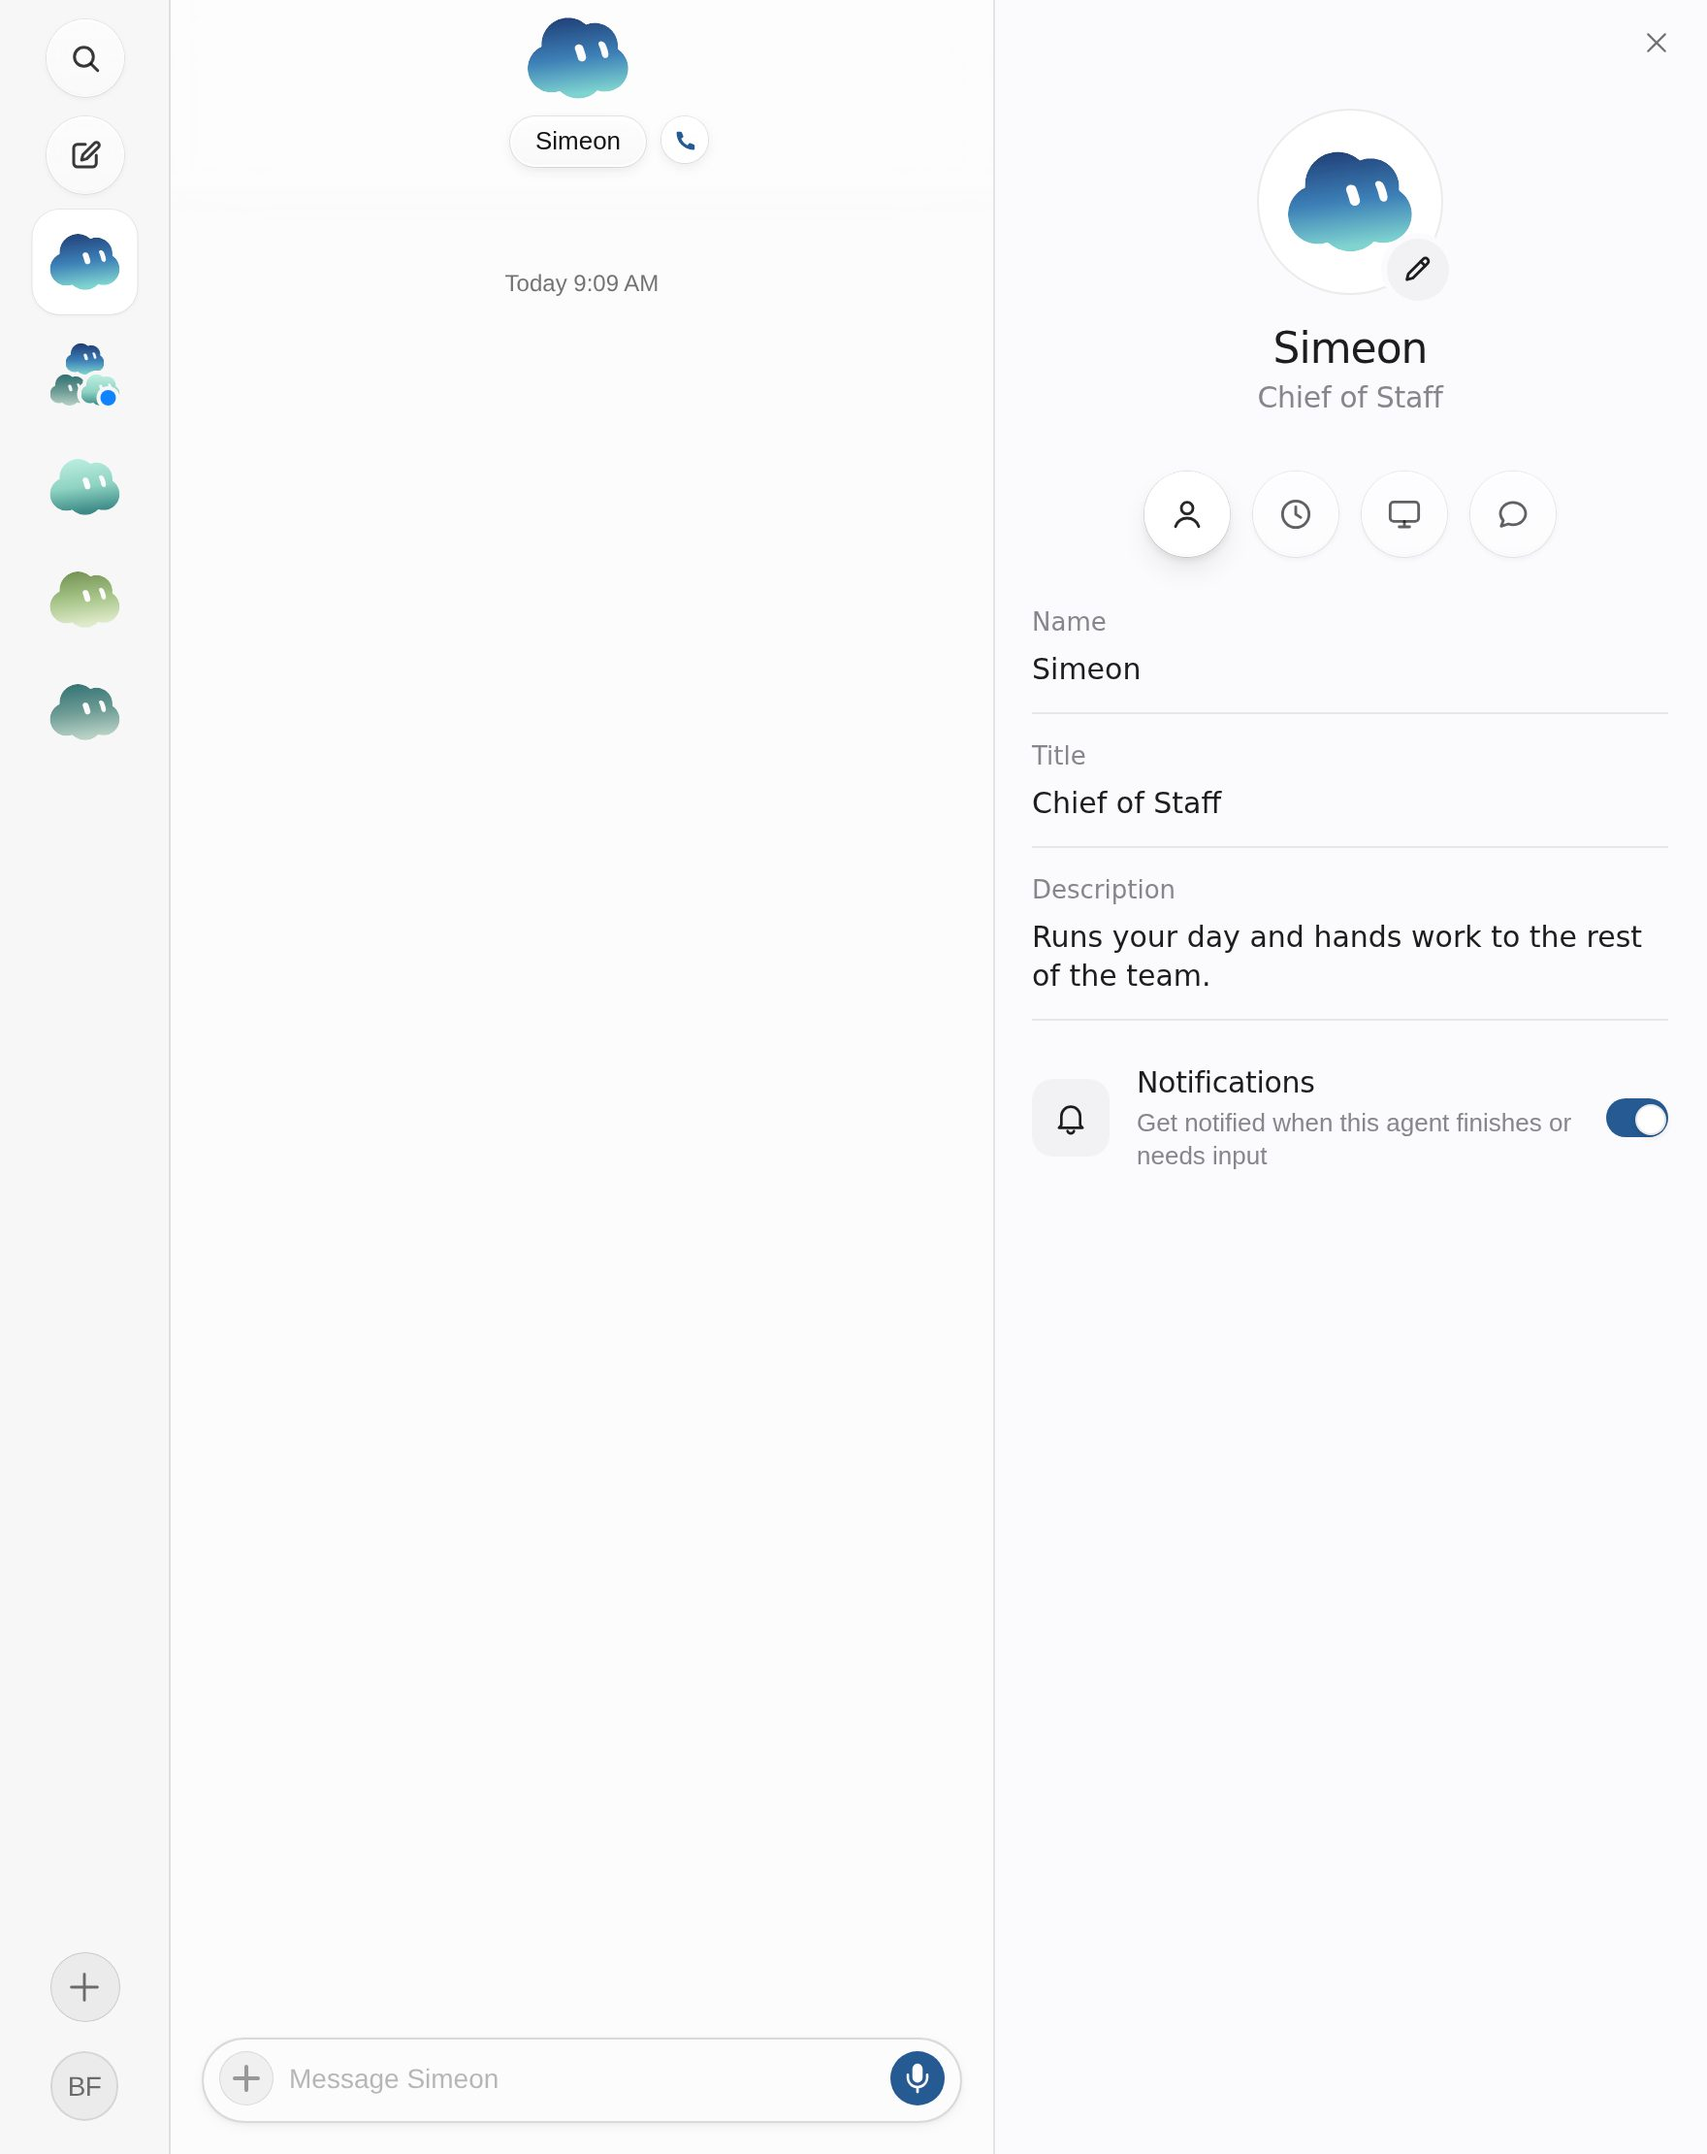
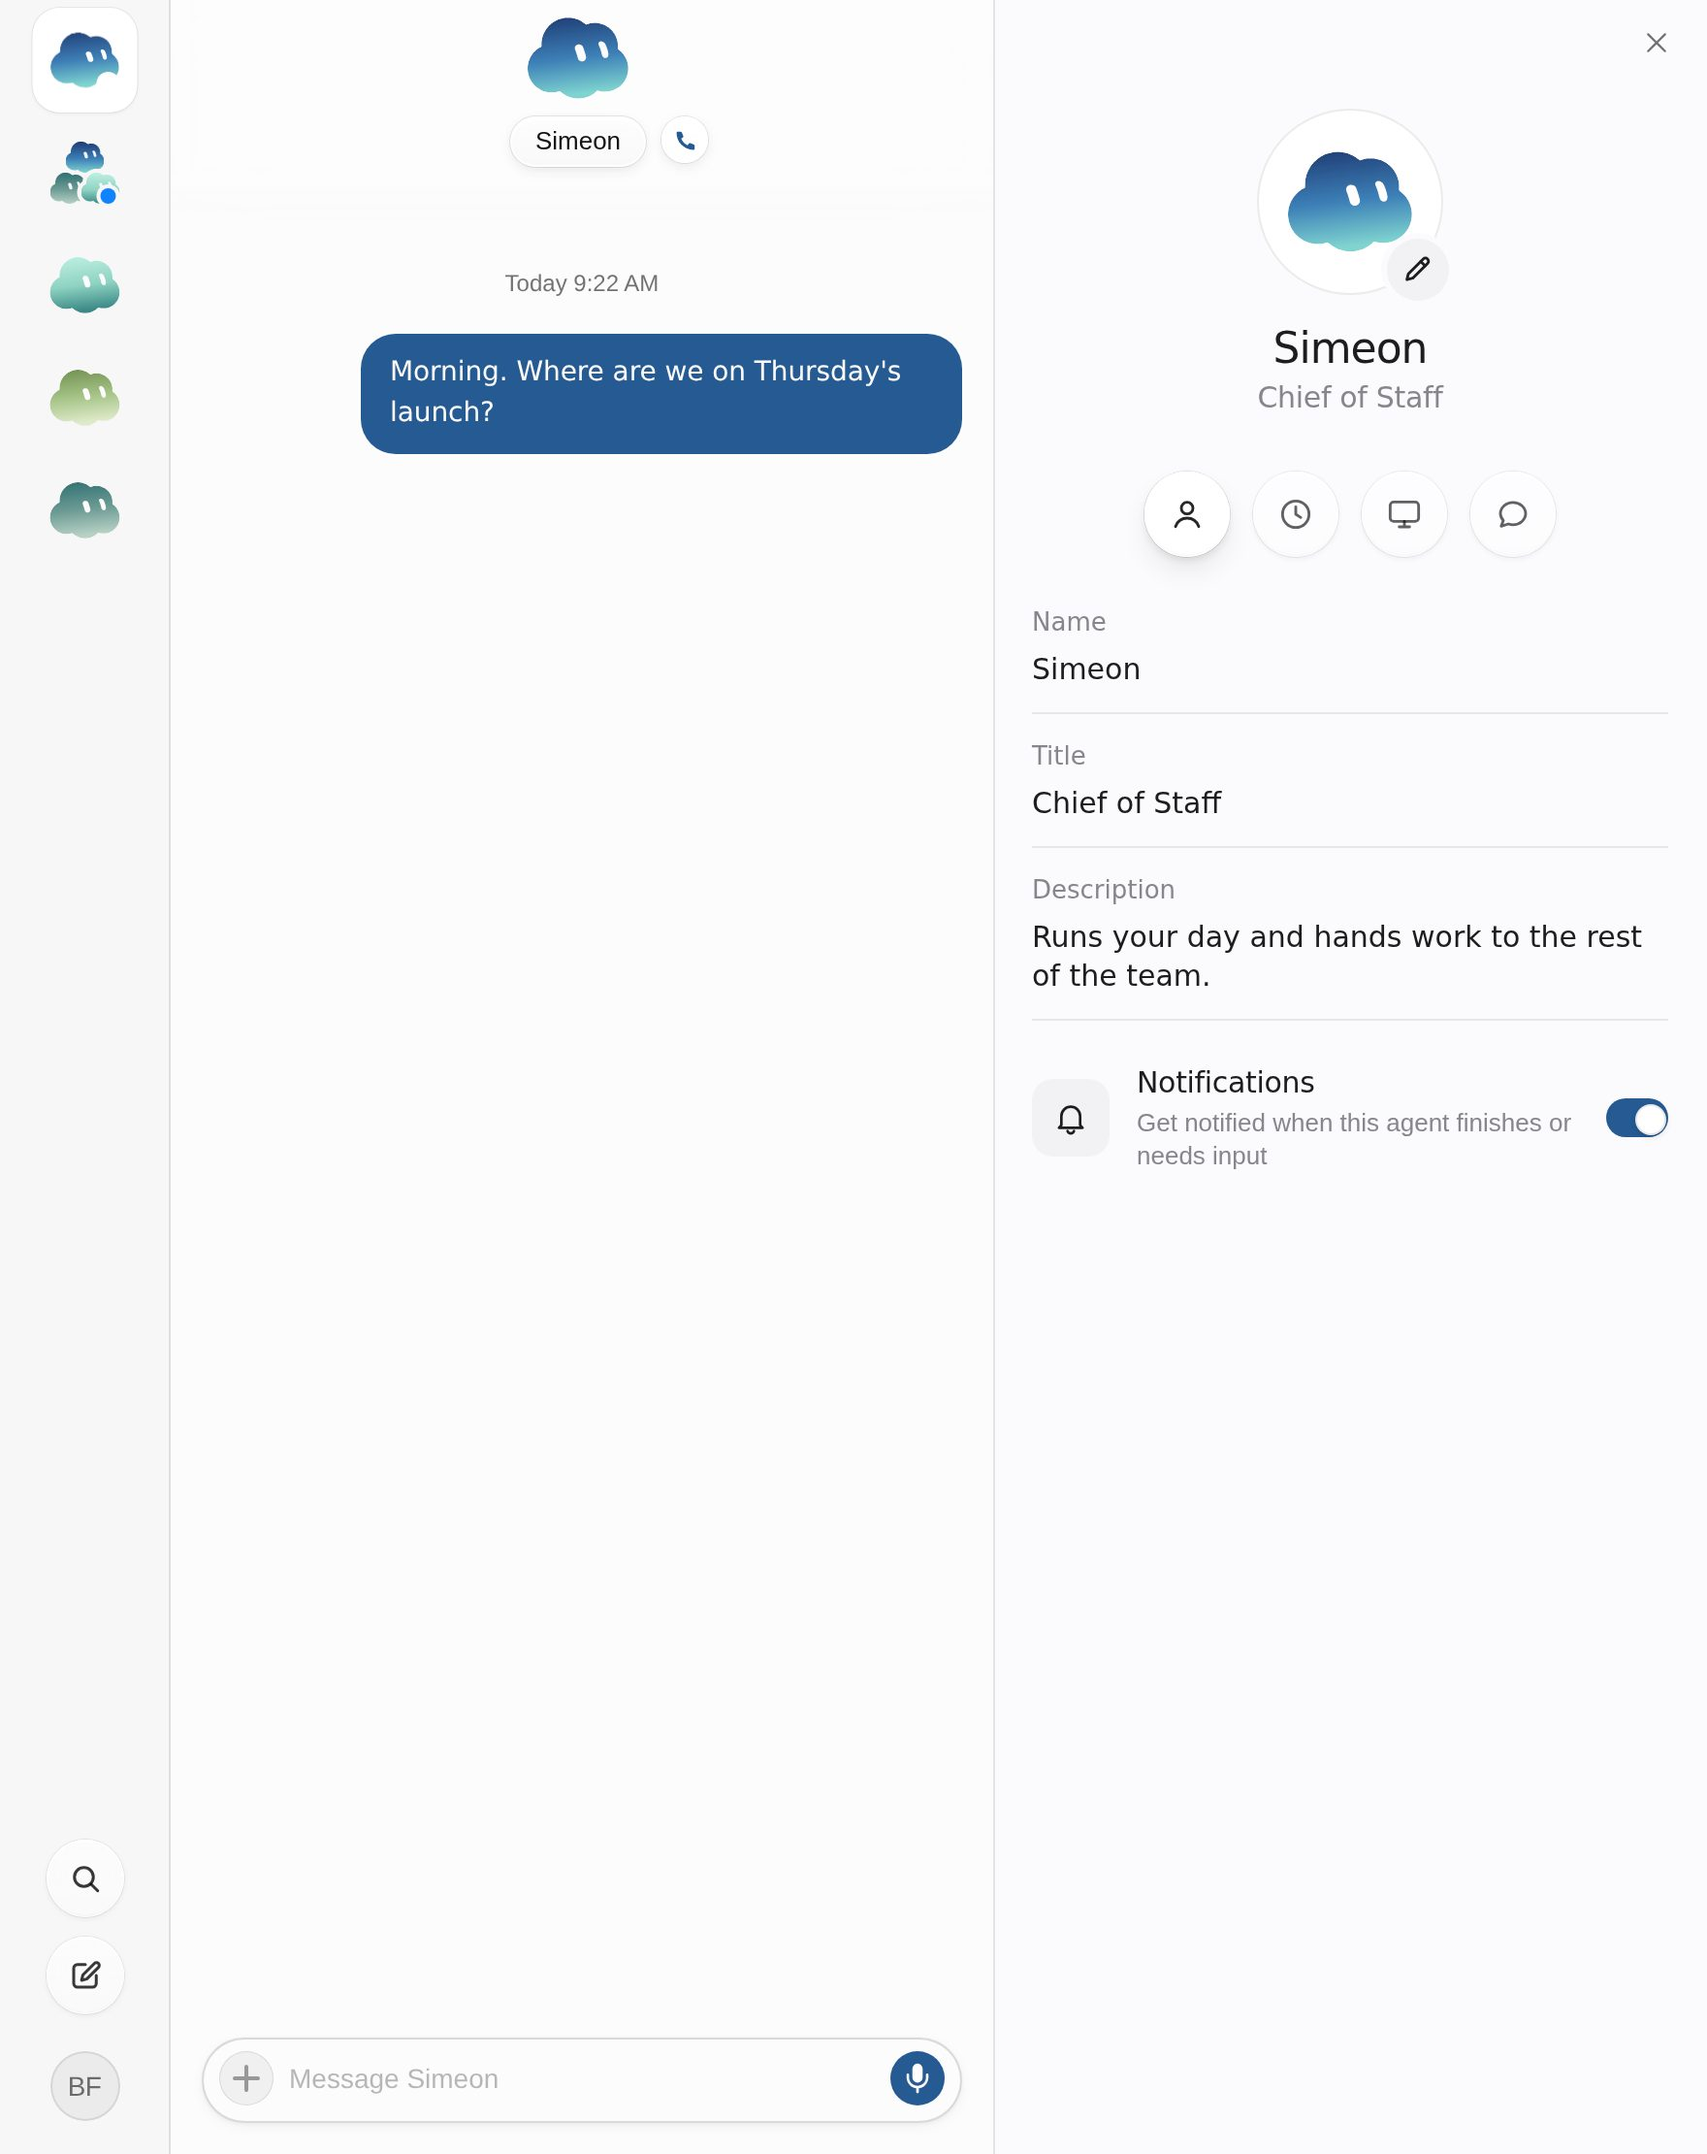
Site demo: the rail no longer shows its own "New chat" plus beside the compose disc
With the agent pane open the sidebar renders a second plus button of its
own at the foot of the rail; the compose disc already is that button, so
the plus is hidden. The hero posters are regenerated to match.

Claude-Session: https://claude.ai/code/session_01YVdXyUP5gsDTr44eH5Vte9

Changed region(s): [[0.1875, 0.1554, 0.5625, 0.2176], [0.0312, 0.0, 0.0938, 0.3419], [0.0312, 0.9014, 0.0625, 0.9324]]

diff --git a/sites/simeonlabs.com/public/app/c240c441e36a/demo-glass.css b/sites/simeonlabs.com/public/app/c240c441e36a/demo-glass.css
@@ -39,3 +39,5 @@ html body .sand-shell:has(.sand-info-pane[data-open="true"]) .sand-agents-sideba
 html body .sand-shell:has(.sand-info-pane[data-open="true"]) .sand-agents-sidebar__header{order:1!important;height:auto!important;padding:6px 0 10px!important;justify-content:center!important}
 html body .sand-shell:has(.sand-info-pane[data-open="true"]) .sand-agents-sidebar__footer{order:2!important}
 html body .sand-shell:has(.sand-info-pane[data-open="true"]) .sand-agents-sidebar__new-actions{flex-direction:column!important;gap:10px!important;margin:0 auto!important}
+/* The rail renders a second "New chat" plus of its own; the compose disc already is that button. */
+html body .sand-agents-sidebar__rail-new{display:none!important}

diff --git a/sites/simeonlabs.com/source/demo-glass.css b/sites/simeonlabs.com/source/demo-glass.css
@@ -39,3 +39,5 @@ html body .sand-shell:has(.sand-info-pane[data-open="true"]) .sand-agents-sideba
 html body .sand-shell:has(.sand-info-pane[data-open="true"]) .sand-agents-sidebar__header{order:1!important;height:auto!important;padding:6px 0 10px!important;justify-content:center!important}
 html body .sand-shell:has(.sand-info-pane[data-open="true"]) .sand-agents-sidebar__footer{order:2!important}
 html body .sand-shell:has(.sand-info-pane[data-open="true"]) .sand-agents-sidebar__new-actions{flex-direction:column!important;gap:10px!important;margin:0 auto!important}
+/* The rail renders a second "New chat" plus of its own; the compose disc already is that button. */
+html body .sand-agents-sidebar__rail-new{display:none!important}
